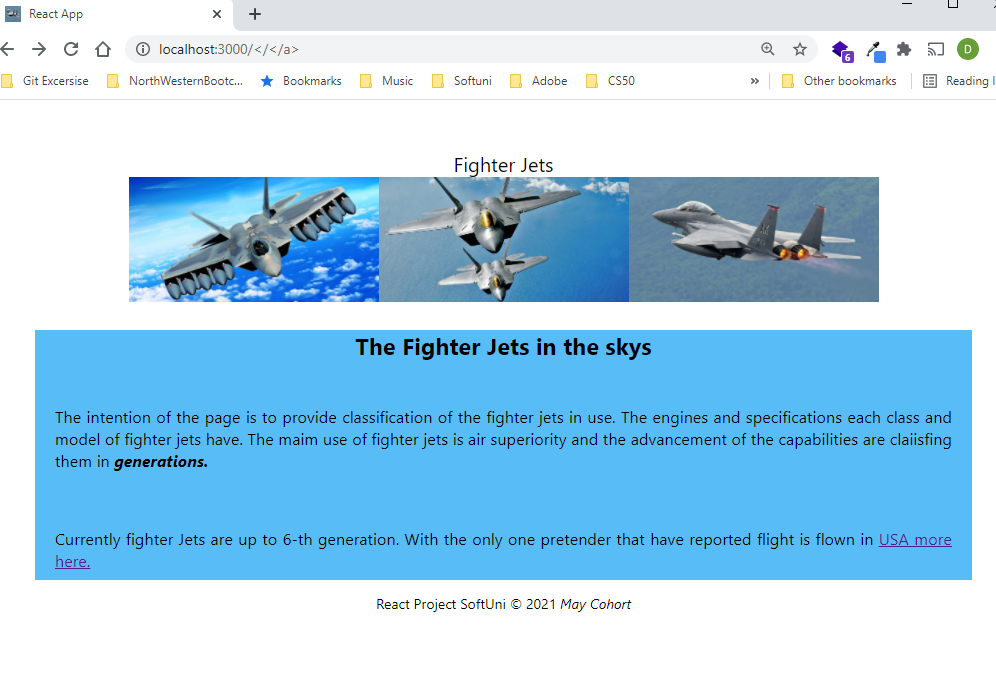
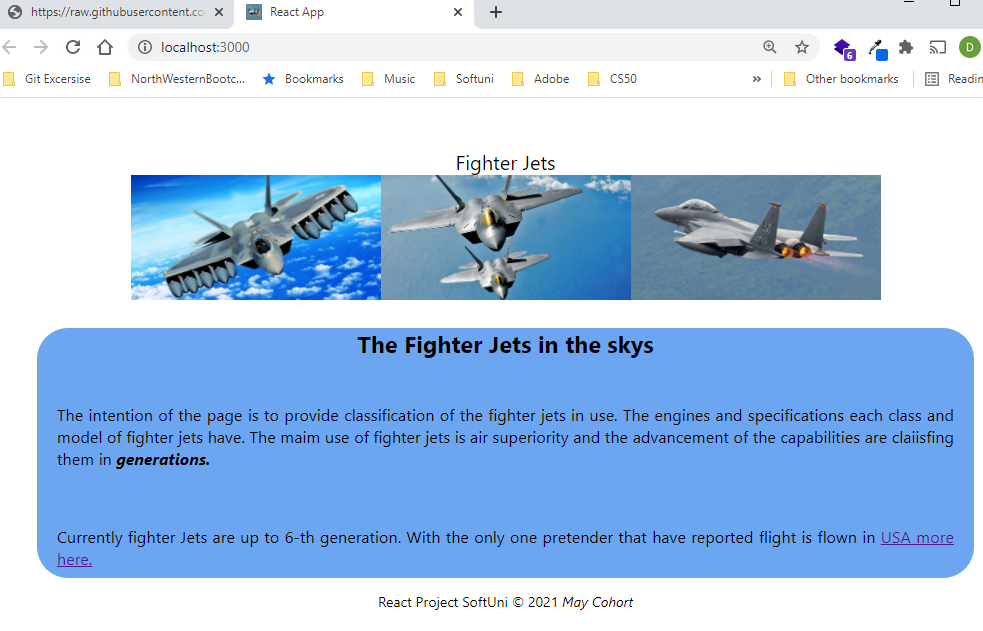
screenshot fixed

diff --git a/src/index.css b/src/index.css
@@ -26,7 +26,9 @@ footer {
 .center-body {
   height: 200px;
   width:auto;
-  background-color: rgba(85, 187, 247, 0.986);
+  background-color: 
+  #0968e598;
+  border-radius: 25px;
  
 }
 .center-body p {

diff --git a/README.md b/README.md
@@ -11,6 +11,7 @@ In the project directory, you can run:
   - data tables with loads
   - profiles
   - average prices
+
 `Project-2` Create website for fighter jets. 
 concept:
 pages with pictures of different jets 
@@ -18,7 +19,7 @@ statistics about :
 ### 1. Production -some statistics from wikipedia
 ### 2. Employment into the armies of the world -US, Russia,Israel, China,France, Greace, India
 ### 3. Table with the specifications of the jets - twin engines, single engines, speed, distance
-## 4. Blog part of the site with - 3-4 articles 300 words
+### 4. Blog part of the site with - 3-4 articles 300 words
 #### 4.1. Comment section
 #### 4.2. Like buttons
 #### 4.3. Views of the page. Count each time the page is loaded in intervals of 5 minutes
@@ -26,4 +27,4 @@ statistics about :
 
 Used site for flavicon convertion https://www.icoconverter.com/
  ##### SCREENSHOT 
- <img src="public/screenshots/ScreenshotFrontPage-1.jpg">
+ <img src="public/screenshots/ScreenshotFrontPage-1.png" width="100"/>
